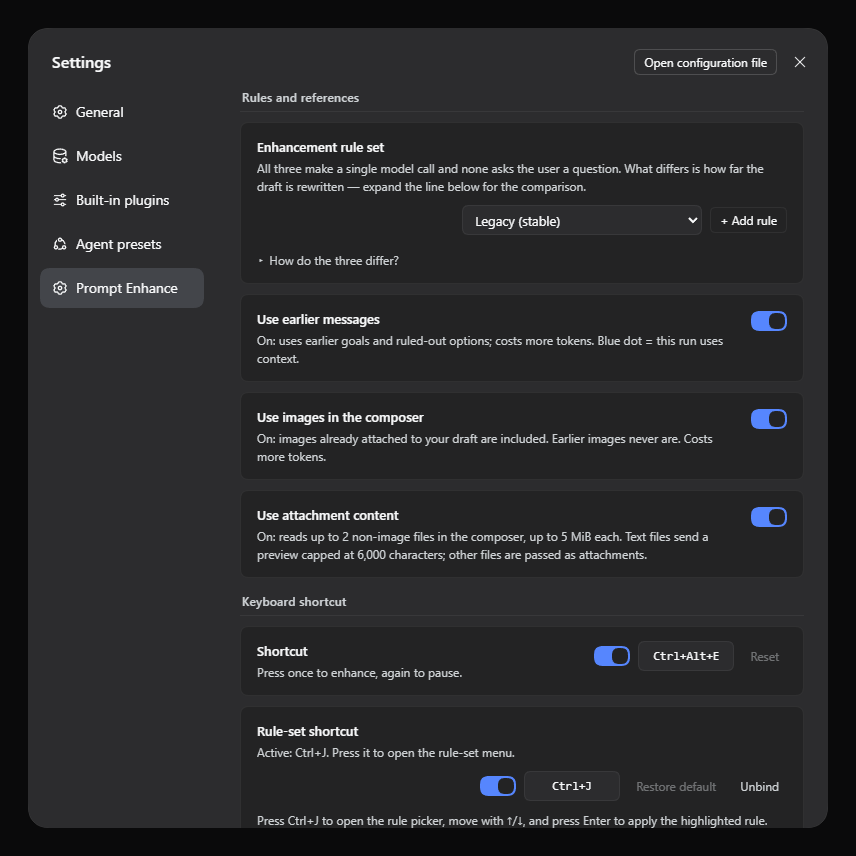
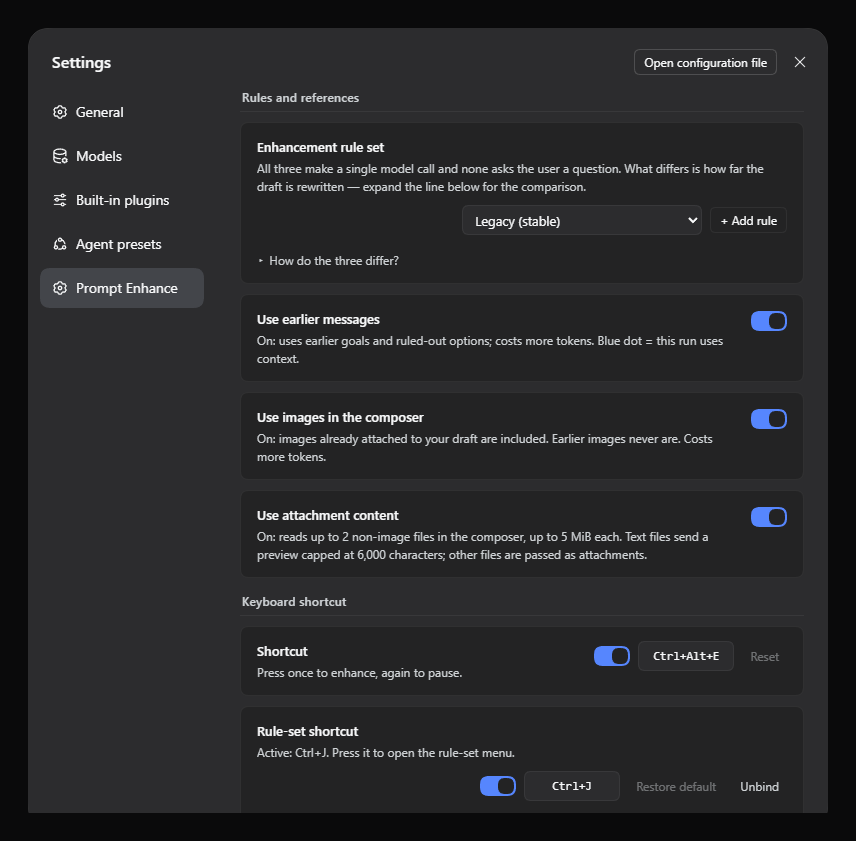
fix: apply the shortcut switch live and compare the real enhance key

diff --git a/client.js b/client.js
@@ -1061,7 +1061,10 @@ window.__ModuleLoader__.load({
 				const codes = [other.code, other.secondCode].filter((code) => typeof code === 'string' && code !== '');
 				return codes.includes(binding.code);
 			};
-			const hit = (Array.isArray(rows) ? rows : []).find((row) => row?.id !== SHORTCUT_ID && covers(row?.binding));
+			// Include this plugin's own command row: its live binding is exactly what a
+			// sibling key must not duplicate, and excluding it was why Ctrl+Alt+E could
+			// be recorded as the rule-set key without naming the enhance command.
+			const hit = (Array.isArray(rows) ? rows : []).find((row) => covers(row?.binding));
 			if (hit === undefined) return undefined;
 			const label = typeof hit.label === 'function' ? hit.label() : hit.label;
 			const owner = typeof label === 'string' && label !== ''
@@ -1127,10 +1130,6 @@ window.__ModuleLoader__.load({
 			// conversation to consult. A previous run's outcome is irrelevant: a failed
 			// or never-attempted enhancement does not change what the next one will do.
 			const [willUseContext, setWillUseContext] = useState(false);
-			// Whether the keyboard command is active for this profile. Starts false until
-			// the first settings read, then follows the stored switch (on by default,
-			// explicit off honoured). Read from the same response as the other switches.
-			const [shortcutOn, setShortcutOn] = useState(false);
 			// Which rule set the next run will use, and the choices the menu offers.
 			// Read from the same settings response as the switches above, and refreshed
 			// when the menu opens so a rule edited in the settings page shows up.
@@ -1156,7 +1155,6 @@ window.__ModuleLoader__.load({
 						const hasContext = status?.ok === true && status.hasContext === true;
 						setWillUseContext(switchOn && hasContext);
 						const allowed = settings?.ok === true && settings.values?.shortcutEnabled !== false;
-						setShortcutOn(allowed);
 						taskStore.setShortcutEnabled(allowed);
 						taskStore.setRuleShortcutEnabled(settings?.ok === true && settings.values?.ruleShortcutEnabled !== false);
 						if (settings?.ok === true) taskStore.setRuleShortcut(settings.values?.ruleShortcut);
@@ -1828,12 +1826,11 @@ window.__ModuleLoader__.load({
 			// while the draft is empty — placing this after those guards crashed the whole
 			// composer control.
 			useEffect(() => {
-				if (!shortcutOn) {
-					// The feature is off: make sure no stale handler answers the command.
-					return undefined;
-				}
+				// Always publish the handler: the global command checks the live switch
+				// (`taskStore.shortcutEnabled()`) on every press, so flipping the master
+				// switch in Settings takes effect without remounting the composer.
 				return taskStore.attach(sessionId, () => onClickRef.current());
-			}, [sessionId, shortcutOn]);
+			}, [sessionId]);
 
 			/**
 			 * Publish this composer as the live delivery target for its session.
@@ -3192,9 +3189,15 @@ window.__ModuleLoader__.load({
 			 * this row (the same slot `save` uses for a failed write).
 			 */
 			const commitRuleShortcut = async (combo, binding) => {
-				// `keys` is the host's display form; an unmodified command is safer compared
-				// against the canonical default (macOS renders it with symbols).
-				const sibling = shortcut.isDefault ? DEFAULT_SHORTCUT : shortcut.keys;
+				// Read the enhance key from the host catalog, not from a constant: the real
+				// default is Ctrl+E on desktop and Ctrl+Alt+E in the browser, and the host's
+				// `keys` already carries the platform-specific display form. An empty value
+				// means the catalog has not published the command yet, so the host check
+				// below is the remaining guard.
+				// An empty value just means the catalog has not published the command yet;
+				// the reserved-key check still runs, and the host scan below is the second
+				// guard for the plugin's own binding.
+				const sibling = shortcut.keys;
 				const problem = describeRuleShortcutProblem(combo, sibling, t);
 				if (problem !== undefined) {
 					setErrorRow('ruleShortcut');
